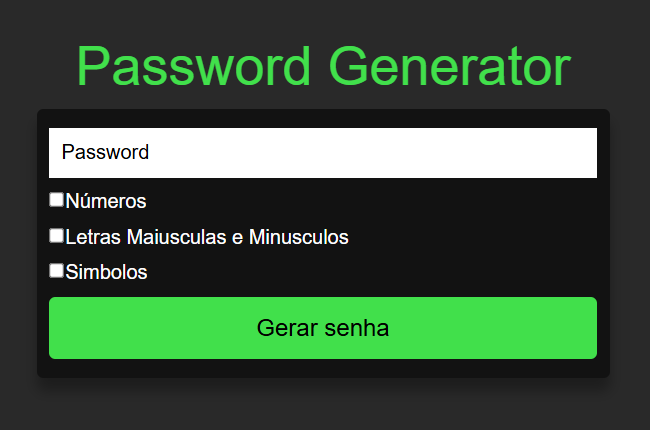
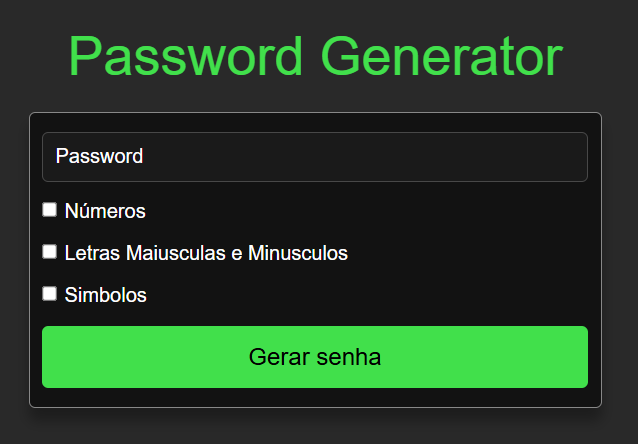
password

Changed region(s): [[0.0596, 0.2419, 0.953, 0.8767], [0.5063, 0.0605, 0.8934, 0.2116], [0.0893, 0.0605, 0.4765, 0.2116]]

diff --git a/my-app/src/App.tsx b/my-app/src/App.tsx
@@ -37,29 +37,32 @@ function App() {
         <h1>Password Generator</h1>
         <div className='Card'>
           <div className='Barra'>
-            <p>{gerarSenha || 'Password'}</p>
+            <p style={{color: '#FFF'}}>{gerarSenha || 'Password'}</p>
           </div>
-          <div style={{marginTop: 10, marginBottom: 10, color: '#FFF'}}>
+          <div style={{marginTop: 15, marginBottom: 15, color: '#FFF'}}>
             <label>
-              <input 
+              <input
+                style={{marginRight: 5}} 
                 type="checkbox" 
                 checked={usarNumero} 
                 onChange={()=> setUsarNumero(!usarNumero)}
               />Números
             </label>
           </div>
-           <div style={{marginTop: 10, marginBottom: 10, color: '#FFF'}}>
+           <div style={{marginTop: 15, marginBottom: 15, color: '#FFF'}}>
             <label>
               <input 
+                style={{marginRight: 5}}
                 type="checkbox"
                 checked={usarLetras}
                 onChange={()=> setUsarLetras(!usarLetras)}
               />Letras Maiusculas e Minusculos
             </label>
           </div>
-           <div style={{marginTop: 10, marginBottom: 10, color: '#FFF'}}>
+           <div style={{marginTop: 15, marginBottom: 15, color: '#FFF'}}>
             <label>
               <input 
+                style={{marginRight: 5}}
                 type="checkbox"
                 checked={usarSimbolo}
                 onChange={()=> setUsarSimbolo(!usarSimbolo)}

diff --git a/my-app/src/App.css b/my-app/src/App.css
@@ -23,6 +23,7 @@ body{
   font-size: 2.7rem;
   font-weight: 400;
   color: #41E04B;
+  margin-bottom: 10px;
 }
 
 /*---Card---*/
@@ -33,6 +34,7 @@ body{
   border-radius: 5px;
   background-color: #121212;
   box-shadow: 0px 10px 10px 0px rgba(0,0,0,0.3);
+  border: 1px solid #888888;
 }
 
 .Card button{
@@ -57,7 +59,9 @@ body{
   display: flex;
   align-items: center;
   justify-content: flex-start;
-  background-color: #ffffff;
+  background-color: #1a1a1a;
+  border: 1px solid #484848;
+  border-radius: 5px;
   padding: 0 10px;
 }
 
